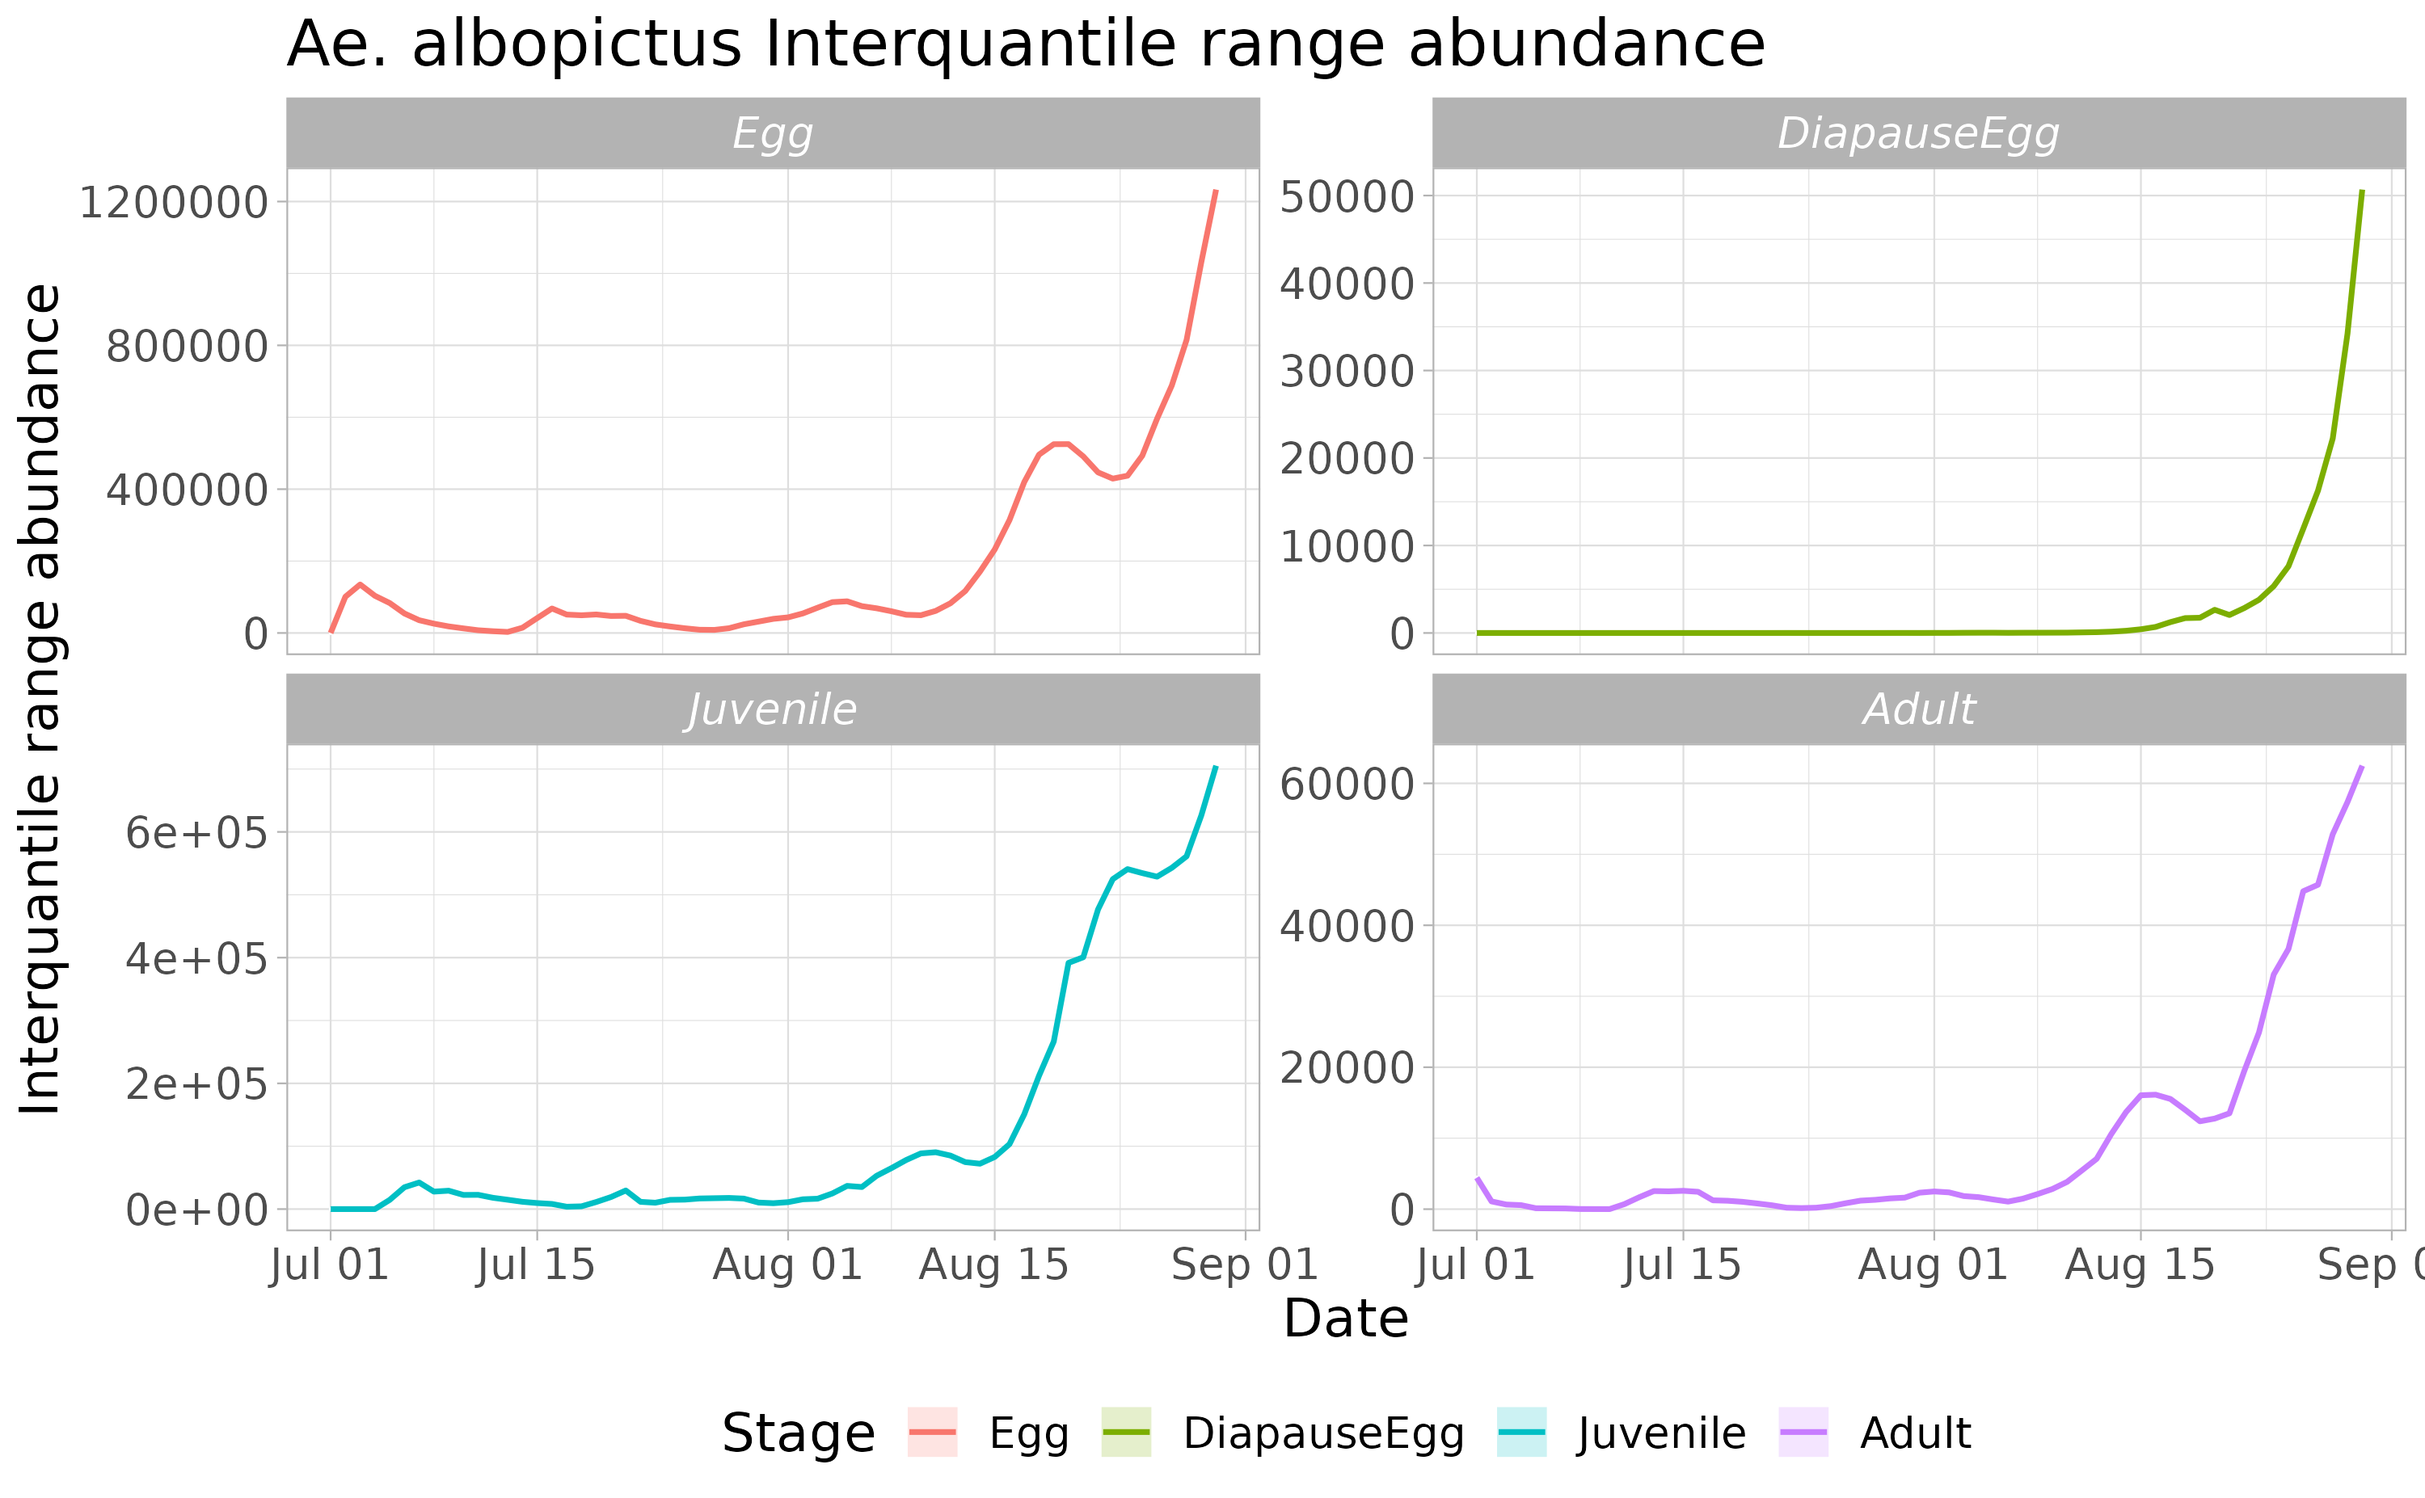
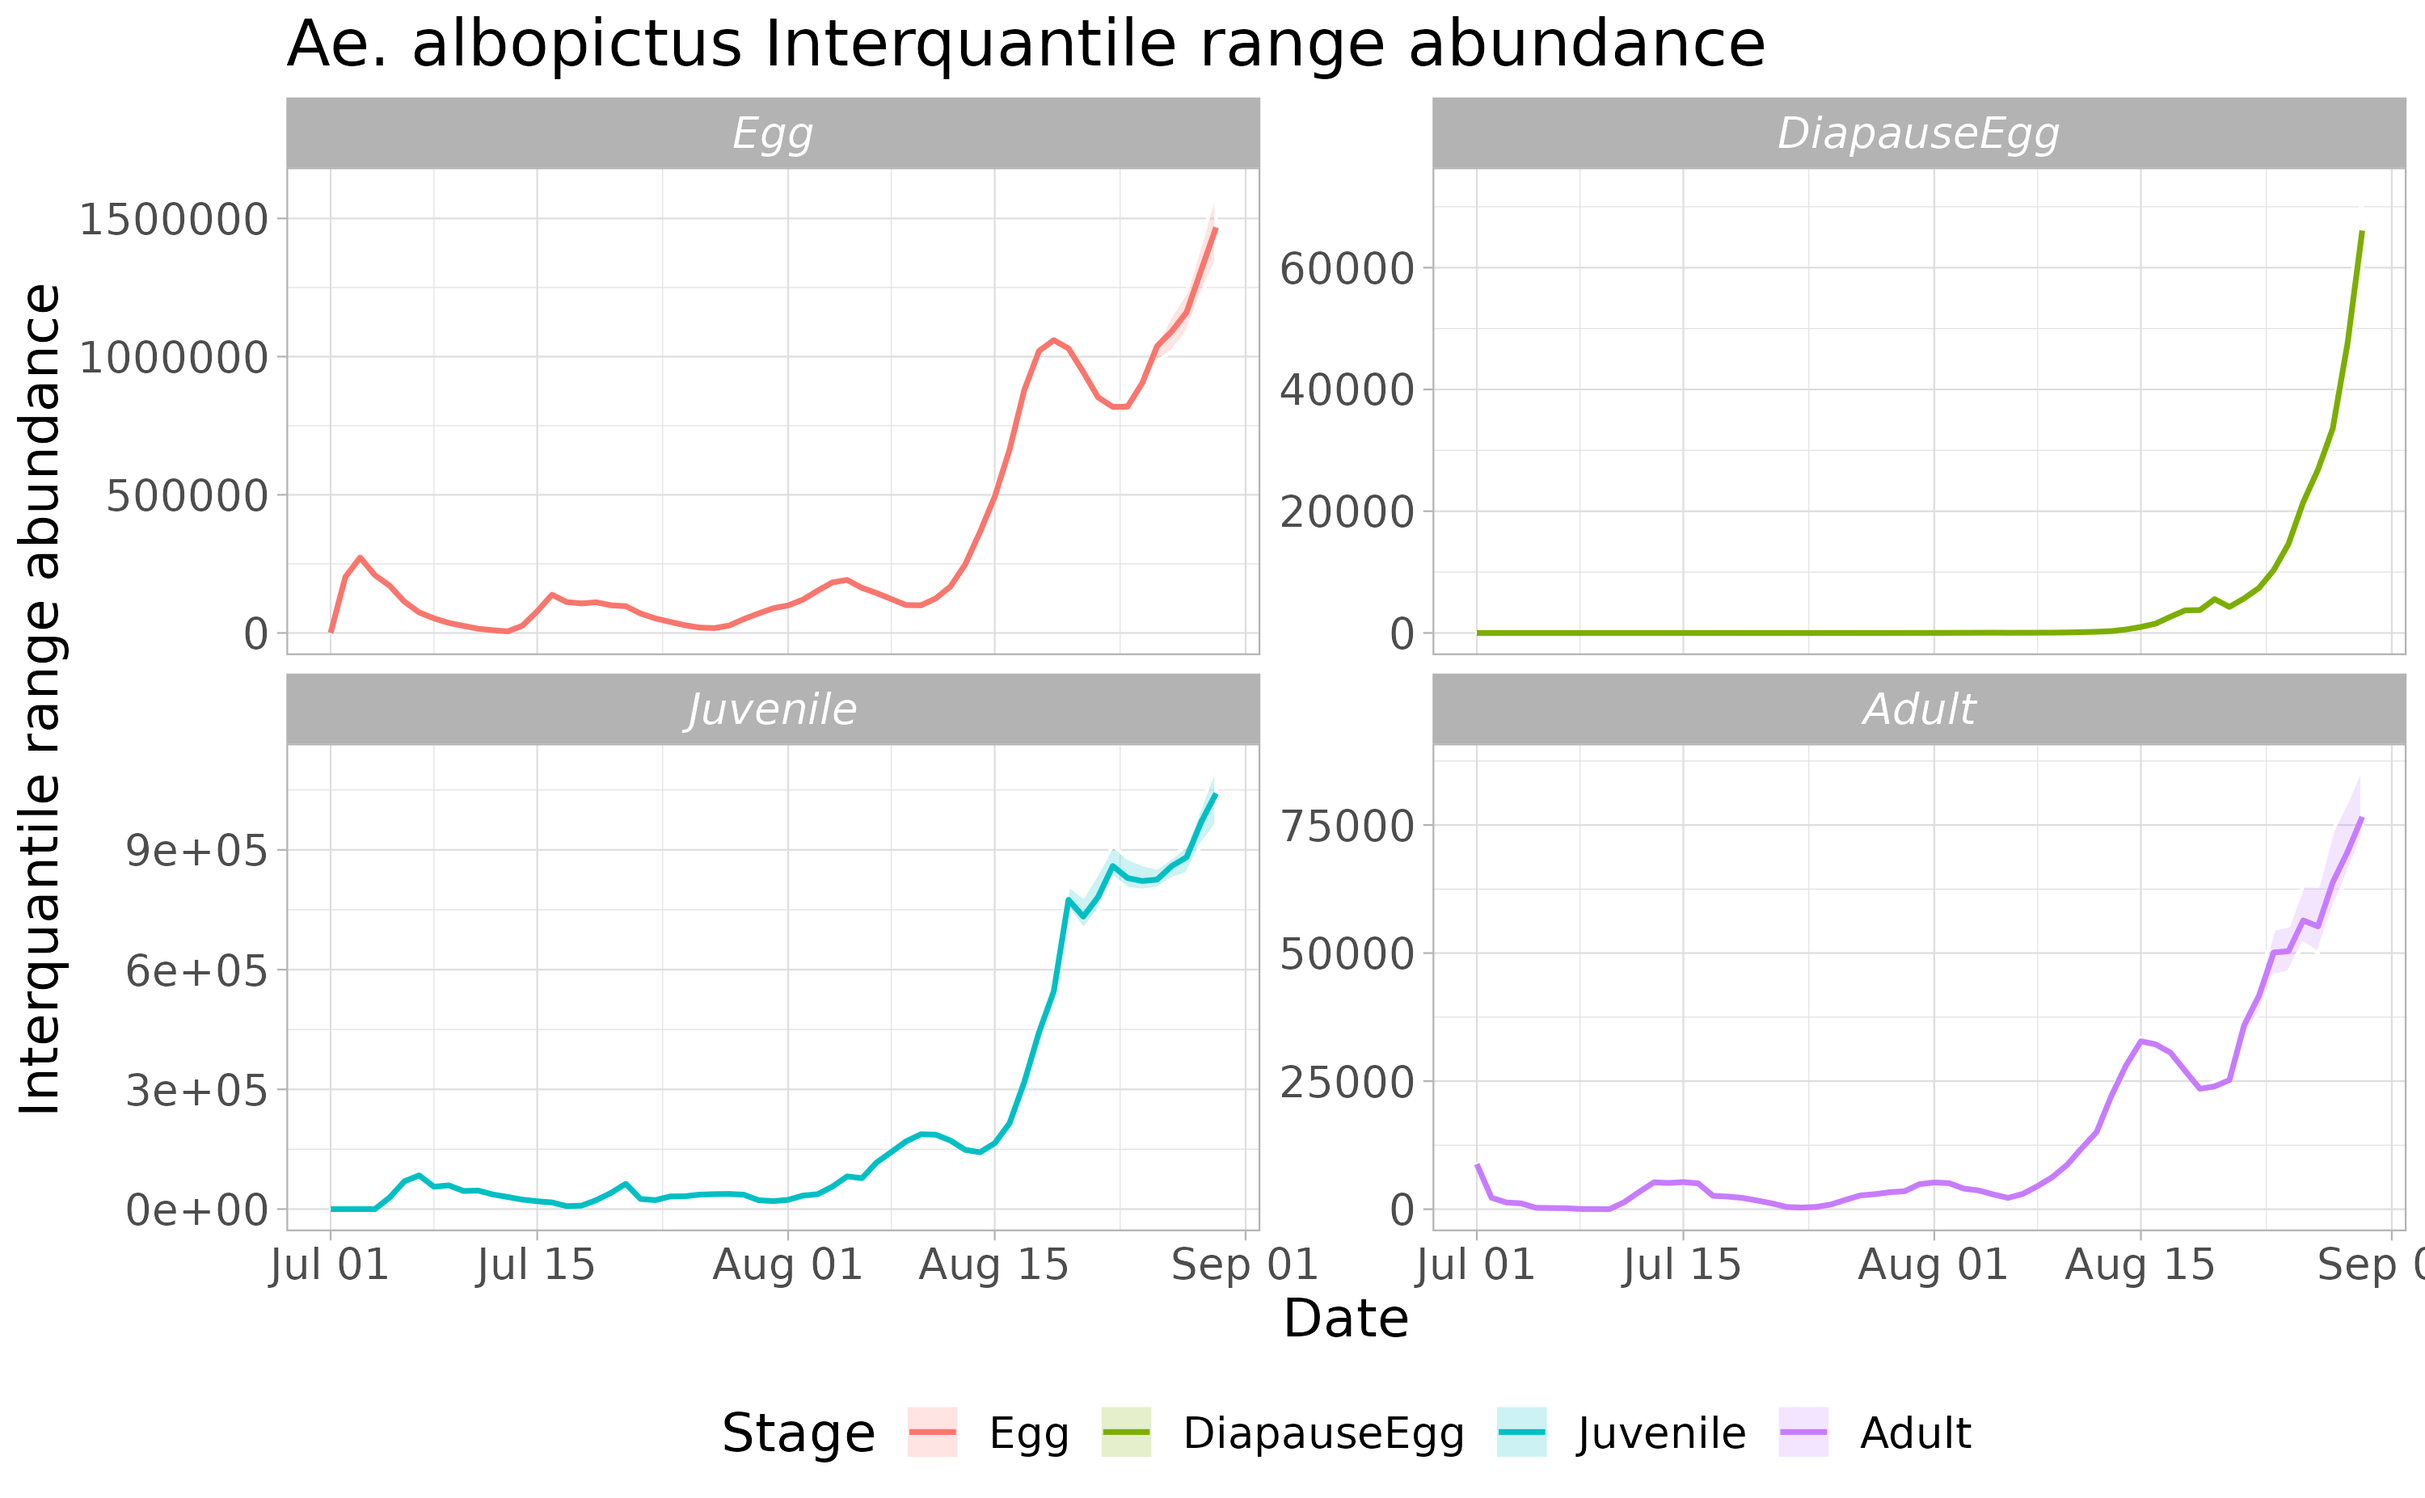
Deploying to gh-pages from @ mattmar/dynamAedes@33d3261177f750ce019fa6348e938e97ecff9b68 🚀

diff --git a/articles/dynamAedes_02_local.html b/articles/dynamAedes_02_local.html
@@ -95,7 +95,7 @@
                         <h4 data-toc-skip class="author">Daniele Da Re,
 Sophie 0. Vanwambeke, Matteo Marcantonio</h4>
             
-            <h4 data-toc-skip class="date">2023-10-26</h4>
+            <h4 data-toc-skip class="date">2023-10-31</h4>
       
       <small class="dont-index">Source: <a href="https://github.com/mattmar/dynamAedes/blob/HEAD/vignettes/dynamAedes_02_local.Rmd" class="external-link"><code>vignettes/dynamAedes_02_local.Rmd</code></a></small>
       <div class="hidden name"><code>dynamAedes_02_local.Rmd</code></div>
@@ -394,15 +394,15 @@ defined.</p>
 <span><span class="co">## Define the end-day of life cycle (August 1st is the last day)</span></span>
 <span><span class="va">endr</span> <span class="op">&lt;-</span> <span class="st">"2000-09-01"</span></span>
 <span><span class="co">## Define the number of adult females to be introduced</span></span>
-<span><span class="va">ia</span> <span class="op">&lt;-</span> <span class="fl">5000</span></span>
+<span><span class="va">ia</span> <span class="op">&lt;-</span> <span class="fl">10000</span></span>
 <span><span class="co">## Define the number of model iterations</span></span>
-<span><span class="va">it</span> <span class="op">&lt;-</span> <span class="fl">1</span> <span class="co"># The higher the number of simulations the better</span></span>
+<span><span class="va">it</span> <span class="op">&lt;-</span> <span class="fl">5</span> <span class="co"># The higher the number of simulations the better</span></span>
 <span><span class="co">## Define the number of liters for the larval density-dependent mortality</span></span>
 <span><span class="va">habitat_liters</span> <span class="op">&lt;-</span> <span class="fl">100</span></span>
 <span><span class="co">##Define average trip distance</span></span>
 <span><span class="va">mypDist</span> <span class="op">&lt;-</span> <span class="fl">1000</span></span>
 <span><span class="co">## Define the number of parallel processes (for sequential iterations set nc=1)</span></span>
-<span><span class="va">cl</span> <span class="op">&lt;-</span> <span class="fl">1</span></span>
+<span><span class="va">cl</span> <span class="op">&lt;-</span> <span class="fl">5</span></span>
 <span><span class="co">## Define proj4 string</span></span>
 <span><span class="va">utm32N</span> <span class="op">&lt;-</span> <span class="st">"+proj=utm +zone=32 +ellps=WGS84 +datum=WGS84 +units=m +no_defs"</span> </span></code></pre></div>
 <p>Finally, let us prepare the temperature matrix. Float numbers in the
@@ -504,7 +504,7 @@ during the simulation.</li>
 <span>            cellsize<span class="op">=</span><span class="fl">250</span>,</span>
 <span>            maxadisp<span class="op">=</span><span class="fl">600</span>,</span>
 <span>            dispbins<span class="op">=</span><span class="fl">10</span>,</span>
-<span>            seeding<span class="op">=</span><span class="cn">TRUE</span>,</span>
+<span>            seeding<span class="op">=</span><span class="cn">FALSE</span>,</span>
 <span>            verbose<span class="op">=</span><span class="cn">FALSE</span></span>
 <span>            <span class="op">)</span></span></code></pre></div>
 <p>This simulation, with the provided settings, takes approximately 1
@@ -522,14 +522,12 @@ minute to complete. The result of the simulation will be stored in the
 <pre><code><span><span class="co"># Summary of dynamAedes simulations:</span></span>
 <span><span class="co"># ----------------------------------</span></span>
 <span><span class="co"># Species:                  Aedes albopictus </span></span>
-<span><span class="co"># Scale:                    LC </span></span>
-<span><span class="co">#   Avg passive dispersal:  1000 </span></span>
-<span><span class="co">#   Max active dispersal:   600 </span></span>
+<span><span class="co"># Scale:                    LOCAL </span></span>
 <span><span class="co"># Start Date:               2000-07-01 </span></span>
 <span><span class="co"># End Date:                 2000-09-01 </span></span>
-<span><span class="co"># Number of Iterations:     1 </span></span>
+<span><span class="co"># Number of Iterations:     5 </span></span>
 <span><span class="co"># Introduced Stage:         adult </span></span>
-<span><span class="co"># Number Introduced:        5000 </span></span>
+<span><span class="co"># Number Introduced:        10000 </span></span>
 <span><span class="co"># Is Output Compressed?:    Yes </span></span>
 <span><span class="co"># Water in the System:      100 L </span></span>
 <span><span class="co"># Min days with population: 61 </span></span>
@@ -647,7 +645,7 @@ distribution of a given life stage and for a given simulated day by
 using the function <em>adci</em>. For example for eggs:</p>
 <div class="sourceCode" id="cb42"><pre class="downlit sourceCode r">
 <code class="sourceCode R"><span><span class="va">r</span> <span class="op">&lt;-</span> <span class="fu"><a href="../reference/adci.html">adci</a></span><span class="op">(</span><span class="va">simout</span>, eval_date<span class="op">=</span><span class="fl">60</span>, breaks<span class="op">=</span><span class="fu"><a href="https://rdrr.io/r/base/c.html" class="external-link">c</a></span><span class="op">(</span><span class="fl">0.025</span>,<span class="fl">0.975</span><span class="op">)</span>, stage<span class="op">=</span><span class="st">"Eggs"</span><span class="op">)</span></span></code></pre></div>
-<pre><code><span><span class="co"># LC scale input simulation provided</span></span></code></pre>
+<pre><code><span><span class="co"># LOCAL scale input simulation provided</span></span></code></pre>
 <pre><code><span><span class="co"># Compressed simulation provided</span></span></code></pre>
 <pre><code><span><span class="co"># Computing spatio-temporal abundance estimate.</span></span></code></pre>
 <div class="sourceCode" id="cb46"><pre class="downlit sourceCode r">
@@ -668,19 +666,19 @@ iterations</p>
 <pre><code><span><span class="co">#    25% 50% 75% day</span></span>
 <span><span class="co"># V1   2   2   2   1</span></span>
 <span><span class="co"># V2   2   2   2   2</span></span>
-<span><span class="co"># V3   4   4   4   3</span></span>
-<span><span class="co"># V4   4   4   4   4</span></span>
-<span><span class="co"># V5   3   3   3   5</span></span>
-<span><span class="co"># V6   3   3   3   6</span></span></code></pre>
+<span><span class="co"># V3   4   4   5   3</span></span>
+<span><span class="co"># V4   5   5   5   4</span></span>
+<span><span class="co"># V5   4   4   4   5</span></span>
+<span><span class="co"># V6   5   5   5   6</span></span></code></pre>
 <div class="sourceCode" id="cb49"><pre class="downlit sourceCode r">
 <code class="sourceCode R"><span><span class="fu"><a href="https://rdrr.io/pkg/terra/man/headtail.html" class="external-link">tail</a></span><span class="op">(</span><span class="va">xcells</span><span class="op">)</span></span></code></pre></div>
 <pre><code><span><span class="co">#     25% 50% 75% day</span></span>
-<span><span class="co"># V55  35  35  35  55</span></span>
-<span><span class="co"># V56  44  44  44  56</span></span>
-<span><span class="co"># V57  45  45  45  57</span></span>
-<span><span class="co"># V58  51  51  51  58</span></span>
-<span><span class="co"># V59  56  56  56  59</span></span>
-<span><span class="co"># V60  57  57  57  60</span></span></code></pre>
+<span><span class="co"># V55  54  57  63  55</span></span>
+<span><span class="co"># V56  58  58  59  56</span></span>
+<span><span class="co"># V57  59  62  66  57</span></span>
+<span><span class="co"># V58  63  68  74  58</span></span>
+<span><span class="co"># V59  65  70  77  59</span></span>
+<span><span class="co"># V60  71  73  75  60</span></span></code></pre>
 </div>
 <div class="section level3">
 <h3 id="estimates-of-mosquito-dispersal-spread-in-km2">3.4 Estimates of mosquito dispersal spread (in km2 )<a class="anchor" aria-label="anchor" href="#estimates-of-mosquito-dispersal-spread-in-km2"></a>

diff --git a/reference/dynamAedes.m.html b/reference/dynamAedes.m.html
@@ -270,7 +270,7 @@
 <span class="r-out co"><span class="r-pr">#&gt;</span> [1] "koreicus"</span>
 <span class="r-out co"><span class="r-pr">#&gt;</span> </span>
 <span class="r-out co"><span class="r-pr">#&gt;</span> Slot "scale":</span>
-<span class="r-out co"><span class="r-pr">#&gt;</span> [1] "ws"</span>
+<span class="r-out co"><span class="r-pr">#&gt;</span> [1] "Weaether Station"</span>
 <span class="r-out co"><span class="r-pr">#&gt;</span> </span>
 <span class="r-out co"><span class="r-pr">#&gt;</span> Slot "start_date":</span>
 <span class="r-out co"><span class="r-pr">#&gt;</span> [1] "2021-06-21"</span>
@@ -306,15 +306,15 @@
 <span class="r-out co"><span class="r-pr">#&gt;</span> [[1]]</span>
 <span class="r-out co"><span class="r-pr">#&gt;</span> [[1]][[1]]</span>
 <span class="r-out co"><span class="r-pr">#&gt;</span>              [,1]</span>
-<span class="r-out co"><span class="r-pr">#&gt;</span> egg             0</span>
-<span class="r-out co"><span class="r-pr">#&gt;</span> juvenile       10</span>
+<span class="r-out co"><span class="r-pr">#&gt;</span> egg             4</span>
+<span class="r-out co"><span class="r-pr">#&gt;</span> juvenile        6</span>
 <span class="r-out co"><span class="r-pr">#&gt;</span> adult           0</span>
 <span class="r-out co"><span class="r-pr">#&gt;</span> diapause_egg    0</span>
 <span class="r-out co"><span class="r-pr">#&gt;</span> </span>
 <span class="r-out co"><span class="r-pr">#&gt;</span> [[1]][[2]]</span>
 <span class="r-out co"><span class="r-pr">#&gt;</span>              [,1]</span>
-<span class="r-out co"><span class="r-pr">#&gt;</span> egg             0</span>
-<span class="r-out co"><span class="r-pr">#&gt;</span> juvenile       10</span>
+<span class="r-out co"><span class="r-pr">#&gt;</span> egg             1</span>
+<span class="r-out co"><span class="r-pr">#&gt;</span> juvenile        9</span>
 <span class="r-out co"><span class="r-pr">#&gt;</span> adult           0</span>
 <span class="r-out co"><span class="r-pr">#&gt;</span> diapause_egg    0</span>
 <span class="r-out co"><span class="r-pr">#&gt;</span> </span>

diff --git a/articles/dynamAedes_03_regional.html b/articles/dynamAedes_03_regional.html
@@ -95,7 +95,7 @@
                         <h4 data-toc-skip class="author">Daniele Da Re,
 Sophie O. Vanwambeke, Matteo Marcantonio</h4>
             
-            <h4 data-toc-skip class="date">2023-10-26</h4>
+            <h4 data-toc-skip class="date">2023-10-31</h4>
       
       <small class="dont-index">Source: <a href="https://github.com/mattmar/dynamAedes/blob/HEAD/vignettes/dynamAedes_03_regional.Rmd" class="external-link"><code>vignettes/dynamAedes_03_regional.Rmd</code></a></small>
       <div class="hidden name"><code>dynamAedes_03_regional.Rmd</code></div>
@@ -318,7 +318,7 @@ obtained with:</p>
 <pre><code><span><span class="co"># Summary of dynamAedes simulations:</span></span>
 <span><span class="co"># ----------------------------------</span></span>
 <span><span class="co"># Species:                  Aedes albopictus </span></span>
-<span><span class="co"># Scale:                    RG </span></span>
+<span><span class="co"># Scale:                    REGIONAL </span></span>
 <span><span class="co"># Start Date:               2000-06-01 </span></span>
 <span><span class="co"># End Date:                 2000-07-02 </span></span>
 <span><span class="co"># Number of Iterations:     1 </span></span>

diff --git a/articles/dynamAedes_01_punctual.html b/articles/dynamAedes_01_punctual.html
@@ -95,7 +95,7 @@
                         <h4 data-toc-skip class="author">Daniele Da Re,
 Sophie O. Vanwambeke, Matteo Marcantonio</h4>
             
-            <h4 data-toc-skip class="date">2023-10-26</h4>
+            <h4 data-toc-skip class="date">2023-10-31</h4>
       
       <small class="dont-index">Source: <a href="https://github.com/mattmar/dynamAedes/blob/HEAD/vignettes/dynamAedes_01_punctual.Rmd" class="external-link"><code>vignettes/dynamAedes_01_punctual.Rmd</code></a></small>
       <div class="hidden name"><code>dynamAedes_01_punctual.Rmd</code></div>
